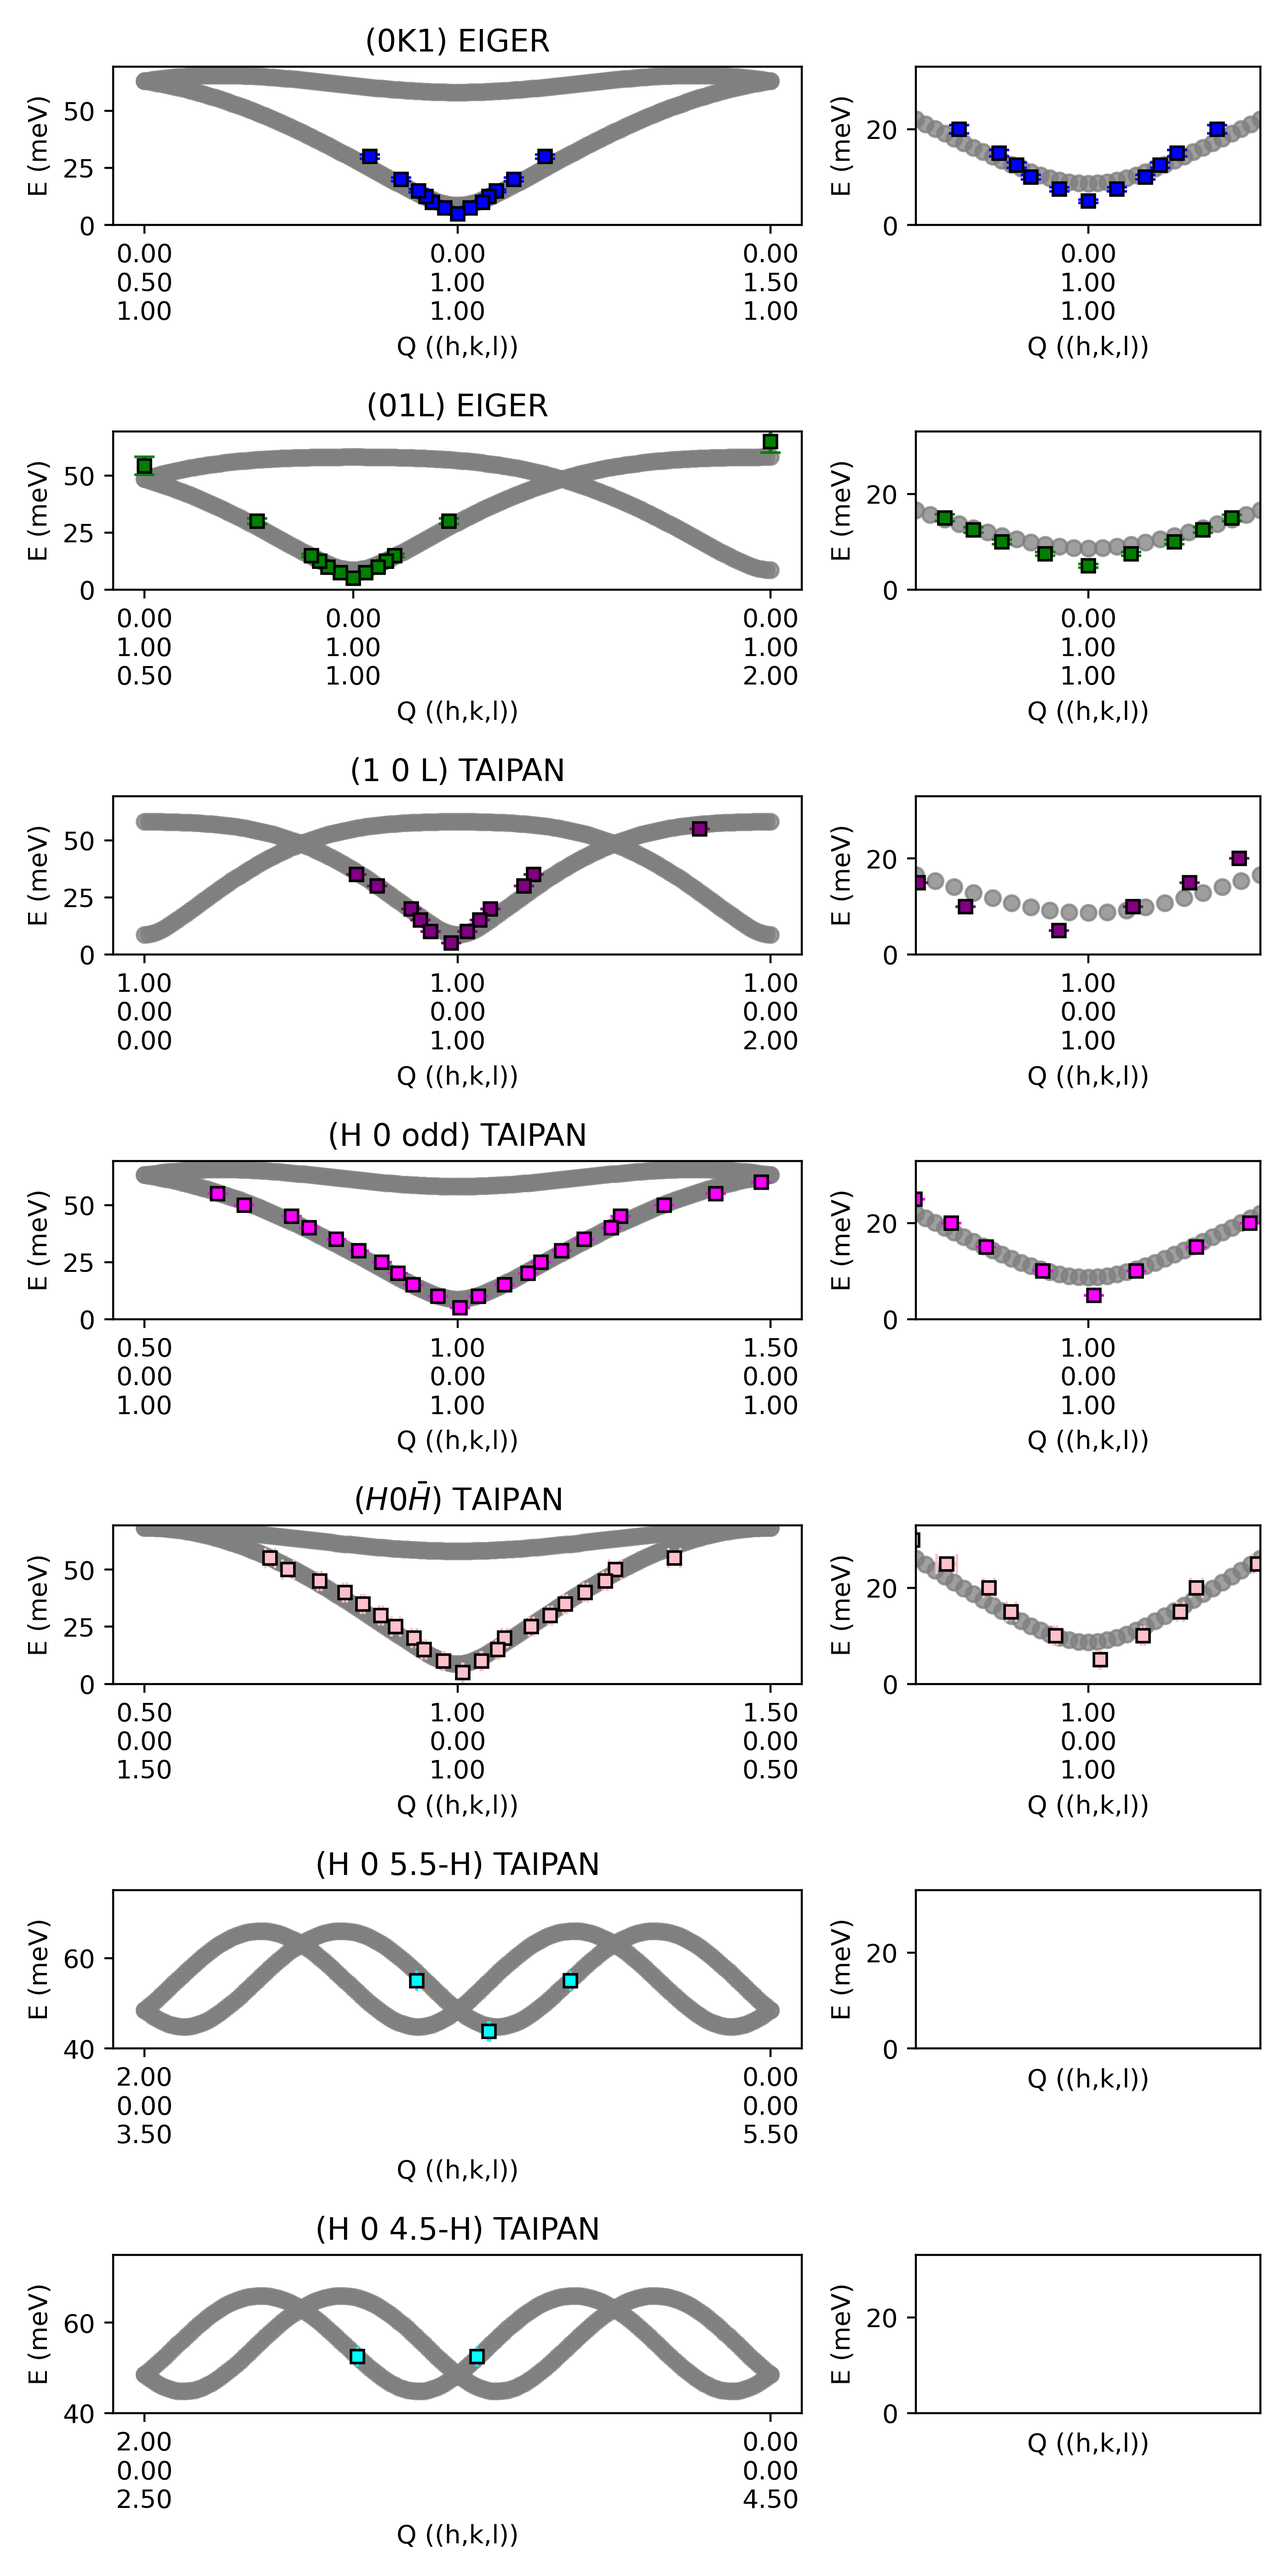
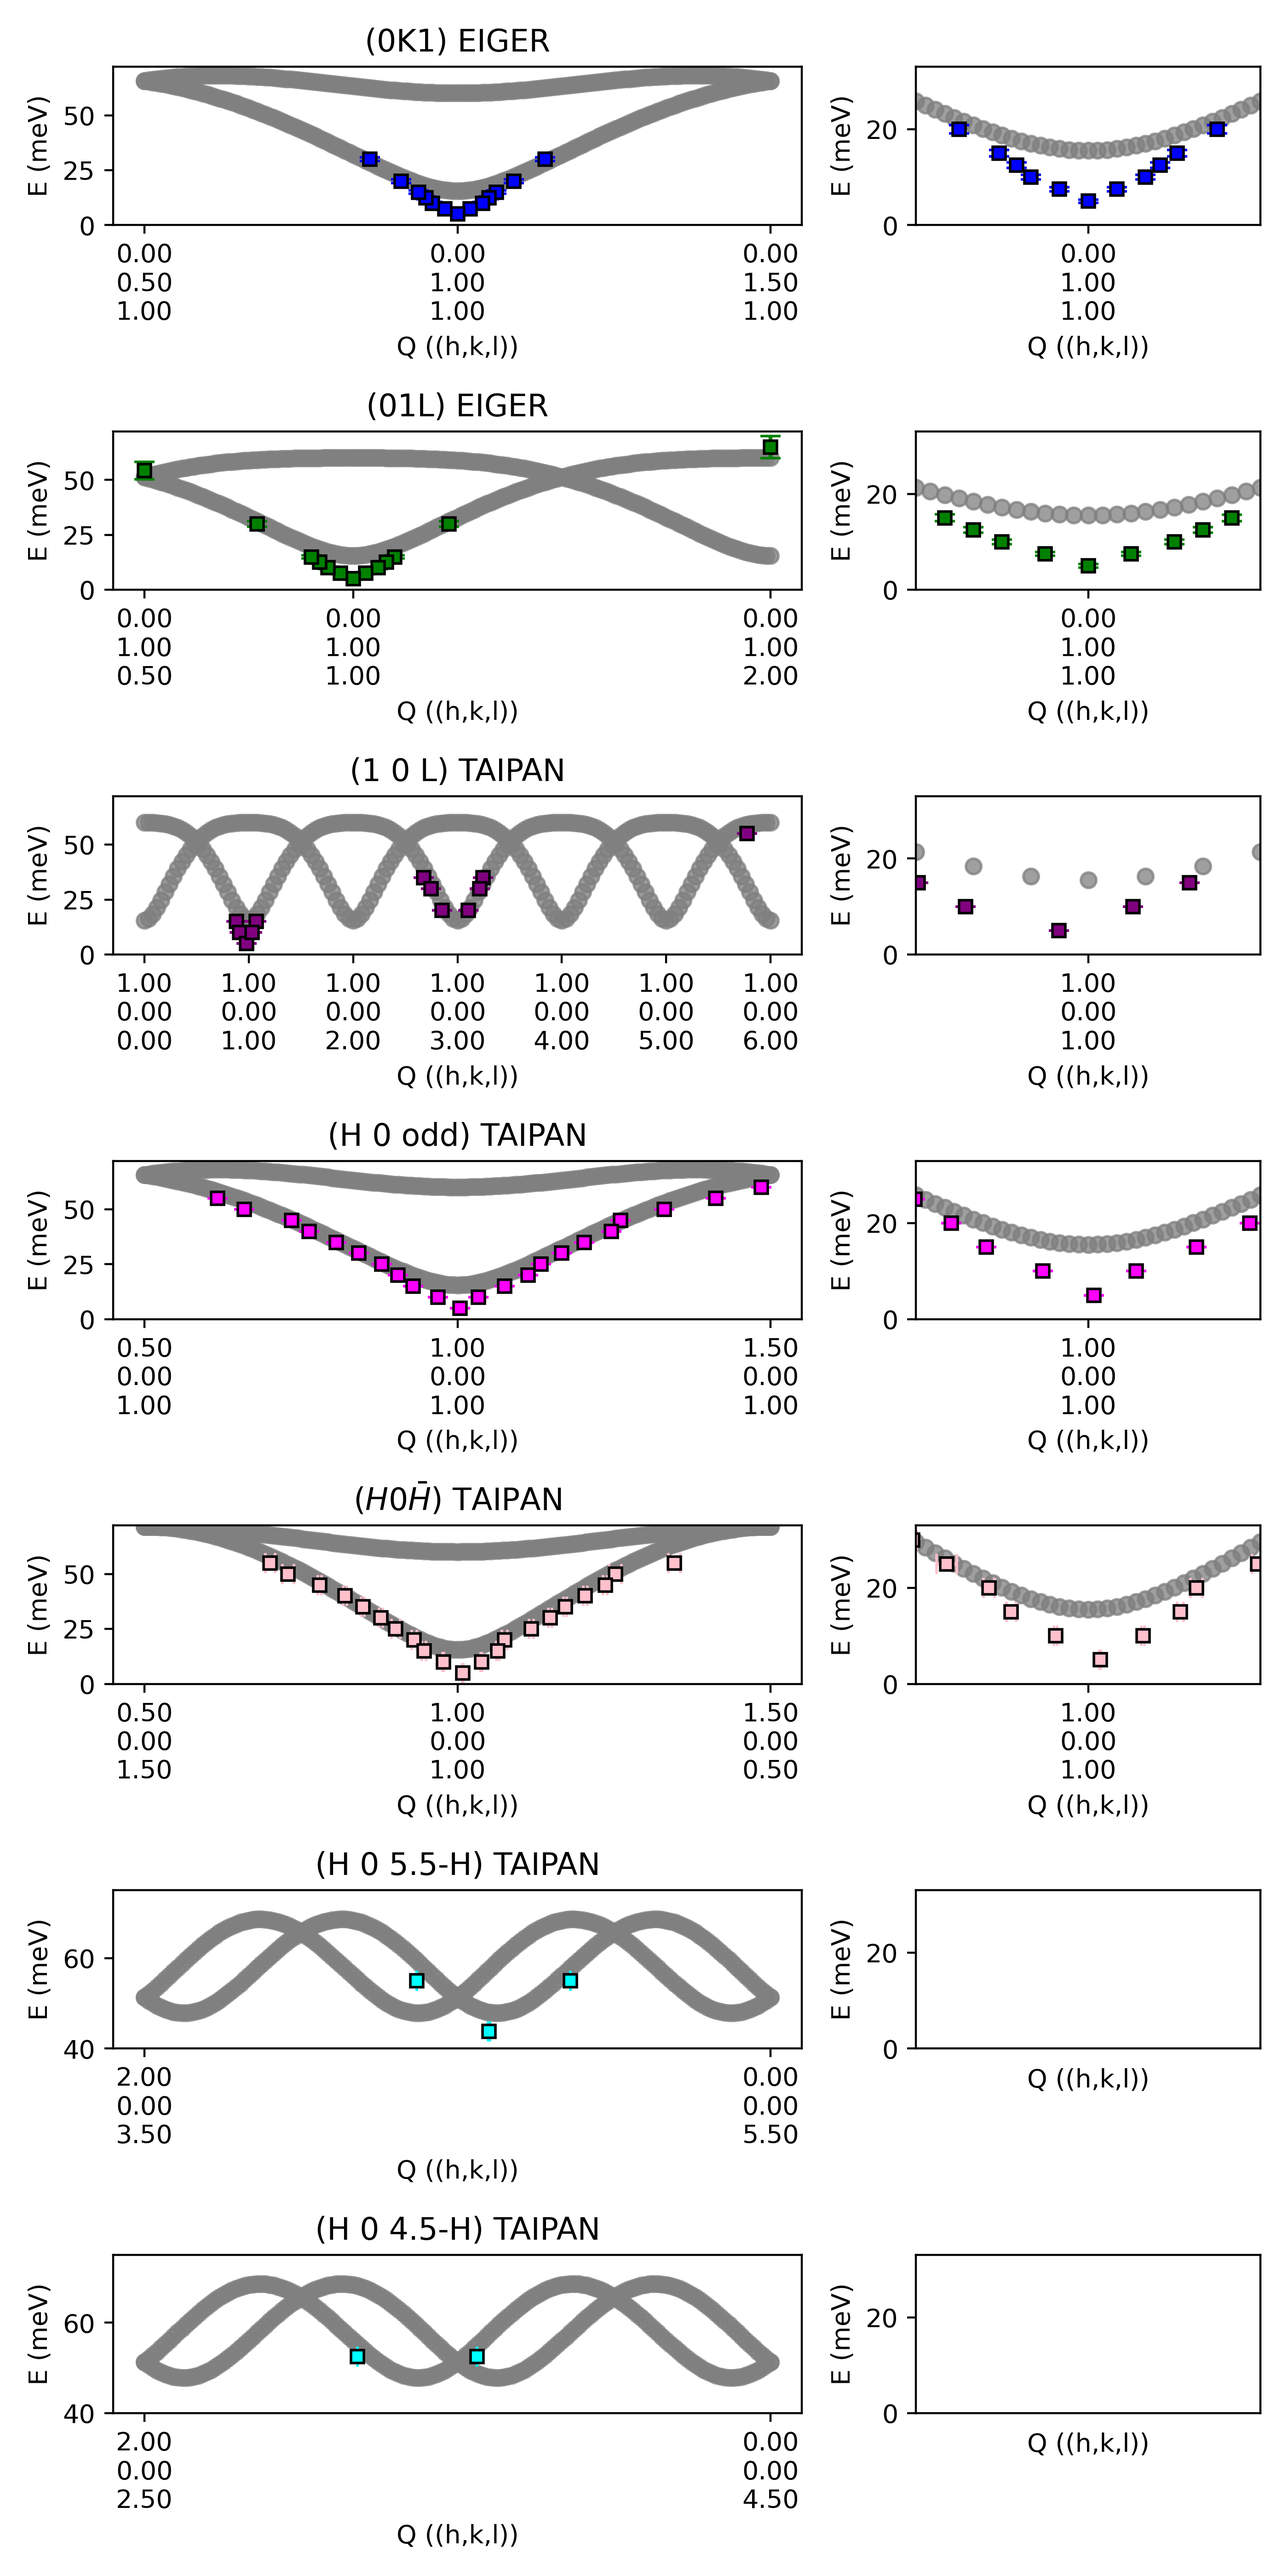
Add non reduced Q

diff --git a/LuFeO3/lufeo.py b/LuFeO3/lufeo.py
@@ -196,6 +196,14 @@ class Data:
         return [e.qred[2] for e in self.entries]
     
     @property
+    def QH(self) -> list[float]:
+        return [e.Q[0] for e in self.entries]
+    
+    @property
+    def QK(self) -> list[float]:
+        return [e.Q[1] for e in self.entries]
+    
+    @property
     def QL(self) -> list[float]:
         return [e.Q[2] for e in self.entries]
     
@@ -258,9 +266,11 @@ def plot_spectrum(sw_params, DATA: Data, plot_type: str='dispersion') -> Figure:
     sw.plot_dispersion(ax=axs['01l'],    xaxis=qPath[:,2], plot_type=plot_type, plot_kwargs=dict(color='gray', alpha=0.5))
     sw.plot_dispersion(ax=axs['01l_in'], xaxis=qPath[:,2], plot_type=plot_type, plot_kwargs=dict(color='gray', alpha=0.5))
 
+
+
     print('Calculate spectrum `10l`...')
     axs['10l'].set_title("(1 0 L) TAIPAN")
-    qPath = sw.crystal.make_qPath(main_qs=[[1,0,0], [1,0,2]], Nqs=[Npath])
+    qPath = sw.crystal.make_qPath(main_qs=[[1,0,0], [1,0,6]], Nqs=[Npath])
     omega3, _ = sw.calculate_spectrum(qPath=qPath, silent=True)
     sw.plot_dispersion(ax=axs['10l'],    xaxis=qPath[:,2], plot_type=plot_type, plot_kwargs=dict(color='gray', alpha=0.5))
     sw.plot_dispersion(ax=axs['10l_in'], xaxis=qPath[:,2], plot_type=plot_type, plot_kwargs=dict(color='gray', alpha=0.5))
@@ -306,16 +316,16 @@ def plot_spectrum(sw_params, DATA: Data, plot_type: str='dispersion') -> Figure:
     axs['01l_in'].errorbar(data_01L[:,2], data_01L[:,6], yerr=data_01L[:,7], color='green', **marker_style)
 
     data_10L = DATA.get_Qpath('10L')
-    axs['10l'].errorbar(data_10L.QLred, data_10L.E, yerr=data_10L.E_err, color='purple', **marker_style)
-    axs['10l_in'].errorbar(data_10L.QLred, data_10L.E, yerr=data_10L.E_err, color='purple', **marker_style)
+    axs['10l'].errorbar(data_10L.QL, data_10L.E, yerr=data_10L.E_err, color='purple', **marker_style)
+    axs['10l_in'].errorbar(data_10L.QL, data_10L.E, yerr=data_10L.E_err, color='purple', **marker_style)
 
     data_H0N = DATA.get_Qpath('H0N')
-    axs['h0l'].errorbar(data_H0N.QHred, data_H0N.E, yerr=data_H0N.E_err, color='magenta', **marker_style)
-    axs['h0l_in'].errorbar(data_H0N.QHred, data_H0N.E, yerr=data_H0N.E_err, color='magenta', **marker_style)
+    axs['h0l'].errorbar(data_H0N.QH, data_H0N.E, yerr=data_H0N.E_err, color='magenta', **marker_style)
+    axs['h0l_in'].errorbar(data_H0N.QH, data_H0N.E, yerr=data_H0N.E_err, color='magenta', **marker_style)
 
     data_H0mH = DATA.get_Qpath('H0mH')
-    axs['h0mh'].errorbar(data_H0mH.QHred, data_H0mH.E, xerr=data_H0mH.E_err, color='pink', **marker_style)
-    axs['h0mh_in'].errorbar(data_H0mH.QHred, data_H0mH.E, xerr=data_H0mH.E_err, color='pink', **marker_style)
+    axs['h0mh'].errorbar(data_H0mH.QH, data_H0mH.E, xerr=data_H0mH.E_err, color='pink', **marker_style)
+    axs['h0mh_in'].errorbar(data_H0mH.QH, data_H0mH.E, xerr=data_H0mH.E_err, color='pink', **marker_style)
 
     data_crazy = DATA.get_Qpath('AG-CF-5p5')
     axs['AG-CF-5p5'].errorbar(data_crazy.QL, data_crazy.E, xerr=data_crazy.E_err, color='cyan', **marker_style)
@@ -398,8 +408,8 @@ def fit_lfo(p0: Parameters, DATA: Data):
     """
     print('Fitting LuFeO3 data')
     fit_result = lmfit.minimize(lfo_residuals, p0, method='leastsq', kws={'DATA': DATA})
-
     print(fit_report(fit_result))
+
     return fit_result
 
 def minimize_lfo_gs(p0: Parameters):
@@ -436,7 +446,7 @@ def load_lfo_parameters(model_name: str) -> Parameters:
     # Simple J1-J2 model no more
     # Unstable, as it scales J1 an J2 up
     lfo_params = Parameters()
-    lfo_params.add(name='Ka',  value=-0.08, vary=True)
+    lfo_params.add(name='Ka',  value=-0.28, vary=True)
     lfo_params.add(name='Kc',  value=0, vary=False)
 
     lfo_params.add(name='J1',  value=5.7, vary=True)
@@ -453,7 +463,7 @@ def load_lfo_parameters(model_name: str) -> Parameters:
     lfo_params.add(name='Dc_x',  value=0.158*0.191, vary=False)
     lfo_params.add(name='Dc_y',  value=0.158*0.982, vary=False)
     lfo_params.add(name='Dc_z',  value=0, vary=False)
-    lfo_params.add(name='Fz',  value=0.08*0, vary=False)
+    lfo_params.add(name='Fz',  value=0, vary=True)
 
     models['J12'] = lfo_params
 
@@ -556,7 +566,7 @@ if __name__ == '__main__':
     print(DATA)
 
     # Define main parameters
-    fit = True
+    fit = False
 
     lfo_params = load_lfo_parameters('J12')
     sw = load_system(lfo_params, show_struct=False, silent=False)
@@ -565,7 +575,9 @@ if __name__ == '__main__':
         fit_result = fit_lfo(p0=lfo_params, DATA=DATA)
         lfo_params = fit_result.params
 
+
     fig = plot_spectrum(lfo_params, DATA, plot_type='dispersion')
     fig.savefig(PATH+'\spinwaves-LuFeO3-Eq.png', dpi=400)
     fig = plot_spectrum(lfo_params, DATA, plot_type='spectral_weight')
     fig.savefig(PATH+'\spinwaves-LuFeO3-Sqw.png', dpi=400)
+
